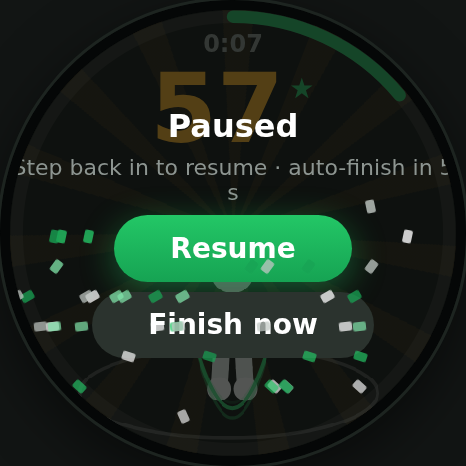
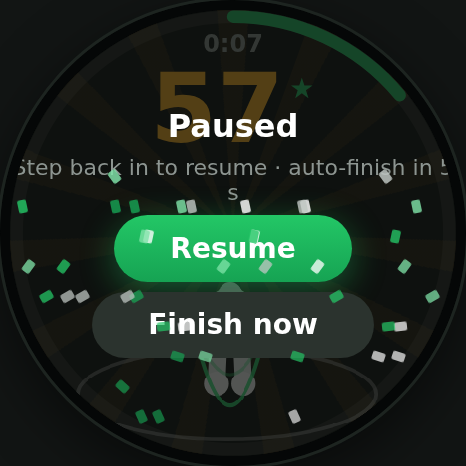
Figure design spec + hip-flush rendering (rounded pictogram definition)
- docs/figure-spec.html (+ PNG): standalone spec card — uniform-width straight torso, hip width equals torso width, legs anchored at hipMid +/-3ws inside the column, no joint protrusions, rounded caps only; do/don't samples and AI keypoint mapping
- Prototype skelFrame: legs now originate from in-column hip anchors instead of raw hip keypoints (removes hip bulge)
- Regenerated all UI screenshots; linked spec from README and PRD

Claude-Session: https://claude.ai/code/session_01MZXpzSkZDw4hTcUnQ2UQRA

diff --git a/docs/figure-spec.html b/docs/figure-spec.html
@@ -1,0 +1,147 @@
+<meta charset="utf-8">
+<title>火柴人设计定义 · Figure Spec</title>
+<style>
+  body { margin: 0; background: #121514; color: #F2F4F2; font-family: "PingFang SC","Noto Sans SC",system-ui,sans-serif; }
+  .sheet { width: 1340px; margin: 0 auto; padding: 40px 40px 48px; }
+  h1 { font-size: 30px; margin: 0 0 6px; } h1 small { color: #8D9591; font-weight: 400; font-size: 16px; margin-left: 12px; }
+  .kw { color: #23C766; font-size: 15px; letter-spacing: .12em; margin-bottom: 26px; }
+  .cols { display: flex; gap: 36px; align-items: flex-start; }
+  .panel { background: #171B19; border: 1px solid #242C27; border-radius: 16px; padding: 24px; }
+  table { border-collapse: collapse; font-size: 14px; width: 100%; }
+  td, th { padding: 7px 12px; border-bottom: 1px solid #242C27; text-align: left; white-space: nowrap; }
+  th { color: #8D9591; font-weight: 600; }
+  td b { color: #23C766; font-variant-numeric: tabular-nums; }
+  .cap { color: #8D9591; font-size: 13px; margin-top: 10px; line-height: 1.7; }
+  .ddt { display: flex; gap: 26px; margin-top: 30px; }
+  .ddt .item { text-align: center; font-size: 14px; }
+  .ddt .tag { margin-top: 6px; font-weight: 700; }
+  .no  .tag { color: #E5604C; } .yes .tag { color: #23C766; }
+  .ann { font-size: 13px; fill: #8D9591; font-variant-numeric: tabular-nums; }
+  .annG { fill: #23C766; font-weight: 700; }
+  .dim { stroke: #4A554F; stroke-width: 1; }
+</style>
+<div class="sheet">
+  <h1>跳绳小挑战 · 火柴人设计定义 <small>Realtime Figure Spec · v1.0 · 适用于实时骨骼渲染与吉祥物姿态稿</small></h1>
+  <div class="kw">科技极简 · 圆润 · 等宽直柱 · 无面部 · 无关节凸起 —— 比奥林匹克 pictogram 更极简</div>
+
+  <div class="cols">
+    <!-- 标注主图 -->
+    <div class="panel">
+      <svg width="560" height="560" viewBox="0 0 560 560">
+        <g transform="translate(150,30)">
+          <!-- 辅助尺寸线 -->
+          <line class="dim" x1="134" y1="10"  x2="215" y2="10"/>
+          <text class="ann" x="228" y="14">头 r26 · 纯白</text>
+          <line class="dim" x1="187" y1="66"  x2="252" y2="66"/>
+          <text class="ann" x="258" y="70">头-肩间隙 ≈11（不相连）</text>
+          <line class="dim" x1="187" y1="95"  x2="268" y2="95"/>
+          <text class="ann" x="274" y="99">颈点 = 双肩中点</text>
+          <line class="dim" x1="188" y1="170" x2="280" y2="170"/>
+          <text class="ann" x="286" y="174">躯干等宽直柱 <tspan class="annG">宽 26</tspan></text>
+          <line class="dim" x1="178" y1="228" x2="292" y2="228"/>
+          <text class="ann" x="298" y="224">髋锚点 ±3</text>
+          <text class="ann annG" x="298" y="242">髋部总宽 = 躯干宽 26</text>
+          <line class="dim" x1="112" y1="128" x2="52" y2="128"/>
+          <text class="ann" x="-96" y="132">臂宽 18</text>
+          <line class="dim" x1="140" y1="300" x2="66" y2="300"/>
+          <text class="ann" x="-96" y="304">腿宽 20</text>
+          <line class="dim" x1="102" y1="218" x2="42" y2="218"/>
+          <text class="ann" x="-96" y="222">手圆头 r13</text>
+          <line class="dim" x1="128" y1="382" x2="60" y2="382"/>
+          <text class="ann" x="-96" y="386">脚圆头 r14</text>
+
+          <!-- 定稿形（基准 ws=1；圆端帽） -->
+          <g stroke="#EDF2EF" stroke-linecap="round" fill="none">
+            <line x1="160" y1="121" x2="160" y2="230" stroke-width="26"/>          <!-- 躯干 -->
+            <path d="M160 121 L118 165 L104 207" stroke-width="18"/>               <!-- 左臂 -->
+            <path d="M160 121 L202 165 L216 207" stroke-width="18"/>               <!-- 右臂 -->
+            <path d="M157 230 L146 297 L140 371" stroke-width="20"/>               <!-- 左腿 -->
+            <path d="M163 230 L174 297 L180 371" stroke-width="20"/>               <!-- 右腿 -->
+          </g>
+          <g fill="#FFFFFF">
+            <circle cx="160" cy="66"  r="26"/>                                     <!-- 头 -->
+            <circle cx="104" cy="207" r="13"/><circle cx="216" cy="207" r="13"/>   <!-- 手 -->
+            <circle cx="140" cy="371" r="14"/><circle cx="180" cy="371" r="14"/>   <!-- 脚 -->
+          </g>
+        </g>
+      </svg>
+      <!-- Do / Don't -->
+      <div class="ddt">
+        <div class="item no">
+          <svg width="96" height="120" viewBox="0 0 96 120">
+            <g stroke="#8D9591" stroke-linecap="round" fill="none">
+              <polygon points="30,30 66,30 56,80 40,80" fill="#8D9591" stroke="none"/>
+              <path d="M42 80 L36 108 M54 80 L60 108" stroke-width="8"/>
+            </g>
+            <circle cx="48" cy="14" r="11" fill="#8D9591"/>
+          </svg>
+          <div class="tag">✕ 宽肩梯形</div>
+        </div>
+        <div class="item no">
+          <svg width="96" height="120" viewBox="0 0 96 120">
+            <g stroke="#8D9591" stroke-linecap="round" fill="none">
+              <line x1="48" y1="32" x2="48" y2="76" stroke-width="13"/>
+              <path d="M38 76 L34 108 M58 76 L62 108" stroke-width="9"/>
+            </g>
+            <circle cx="48" cy="14" r="11" fill="#8D9591"/>
+            <circle cx="38" cy="76" r="7" fill="#8D9591"/>
+            <circle cx="58" cy="76" r="7" fill="#8D9591"/>
+          </svg>
+          <div class="tag">✕ 髋部外凸</div>
+        </div>
+        <div class="item no">
+          <svg width="96" height="120" viewBox="0 0 96 120">
+            <g stroke="#8D9591" stroke-linecap="round" fill="none">
+              <line x1="48" y1="32" x2="48" y2="76" stroke-width="13"/>
+              <path d="M48 40 L28 56 M48 40 L68 56" stroke-width="7"/>
+              <path d="M45 76 L38 108 M51 76 L58 108" stroke-width="9"/>
+            </g>
+            <circle cx="48" cy="14" r="11" fill="#8D9591"/>
+            <circle cx="28" cy="56" r="6" fill="#8D9591"/>
+            <circle cx="68" cy="56" r="6" fill="#8D9591"/>
+            <circle cx="48" cy="40" r="6" fill="#8D9591"/>
+          </svg>
+          <div class="tag">✕ 关节圆点外露</div>
+        </div>
+        <div class="item yes">
+          <svg width="96" height="120" viewBox="0 0 96 120">
+            <g stroke="#EDF2EF" stroke-linecap="round" fill="none">
+              <line x1="48" y1="34" x2="48" y2="78" stroke-width="13"/>
+              <path d="M48 34 L30 52 L24 68" stroke-width="8"/>
+              <path d="M48 34 L66 52 L72 68" stroke-width="8"/>
+              <path d="M46.5 78 L42 108 M49.5 78 L54 108" stroke-width="9"/>
+            </g>
+            <circle cx="48" cy="13" r="11" fill="#fff"/>
+            <circle cx="24" cy="68" r="5.5" fill="#fff"/><circle cx="72" cy="68" r="5.5" fill="#fff"/>
+            <circle cx="42" cy="108" r="6" fill="#fff"/><circle cx="54" cy="108" r="6" fill="#fff"/>
+          </svg>
+          <div class="tag">✓ 定稿</div>
+        </div>
+      </div>
+    </div>
+
+    <!-- 参数表 -->
+    <div class="panel" style="flex:1;">
+      <table>
+        <tr><th>部件</th><th>定义</th><th>基准值（ws=1）</th></tr>
+        <tr><td>头</td><td>纯白实心圆，圆心 = 双耳中点上移 17；与躯干<b>留空不相连</b></td><td>r <b>26</b></td></tr>
+        <tr><td>躯干</td><td>等宽直柱：颈点（双肩中点）→ 髋中点，一条线，圆端帽</td><td>宽 <b>26</b></td></tr>
+        <tr><td>手臂</td><td>从<b>颈点</b>发源（不画肩线）→ 肘 → 腕</td><td>宽 <b>18</b></td></tr>
+        <tr><td>腿</td><td>从<b>髋锚点</b>发源 → 膝 → 踝；髋锚点 = 髋中点 x ±3、y 同髋中点</td><td>宽 <b>20</b></td></tr>
+        <tr><td>髋部</td><td><b>总宽恒等于躯干宽</b>（3×2 + 20 = 26），腿外缘与躯干侧边齐平</td><td>= <b>26</b></td></tr>
+        <tr><td>手 / 脚</td><td>末端纯白小圆头（唯一允许的"凸"，是端点不是关节）</td><td>r <b>13 / 14</b></td></tr>
+        <tr><td>颜色</td><td>肢体/躯干 <b>#EDF2EF</b>（浅白）；头/手/脚 <b>#FFFFFF</b>；深色舞台上使用</td><td>—</td></tr>
+        <tr><td>缩放</td><td>全部尺寸 × ws；ws = clamp(肩宽px ÷ 40, 0.55, 1.5)（近大远小）</td><td>0.55–1.5</td></tr>
+        <tr><td>关节</td><td>肘/膝 = 同宽线段圆帽相接，平滑过渡；<b>肩/髋/肘/膝一律不画圆点、不加宽</b></td><td>—</td></tr>
+      </table>
+      <div class="cap">
+        <b style="color:#F2F4F2">铁律</b>：① 髋部总宽 = 躯干宽，侧边一条直线下来，无外凸；② 无宽肩、无梯形（上下等宽）；
+        ③ 关节零装饰——圆润感全部来自"等宽线 + 圆端帽"，不靠加圆点；④ 无面部、无描边、无渐变；
+        ⑤ 头与躯干之间保留 pictogram 式空隙。<br><br>
+        <b style="color:#F2F4F2">映射（AI 33 点）</b>：颈点=11/12 中点 · 髋中点=23/24 中点 · 头圆心=7/8 中点上移 17ws ·
+        肘 13/14 · 腕 15/16 · 膝 25/26 · 踝 27/28。真实髋点只参与<b>计算髋中点</b>，不直接作为画腿起点。<br><br>
+        <b style="color:#F2F4F2">实现基准</b>：prototype/index.html · skelFrame()（同规格需同步 firmware/src/atom_app.c）。
+      </div>
+    </div>
+  </div>
+</div>

diff --git a/prototype/index.html b/prototype/index.html
@@ -1907,7 +1907,9 @@ function skelFrame() {
     c.lineTo((X(pts[23]) + X(pts[24])) / 2, (Y(pts[23]) + Y(pts[24])) / 2);
     c.stroke();
   }
-  /* 手臂：从颈点分出（火柴人式）；腿：从真实髋点下来（髋点在柱体宽度内，侧边仍直） */
+  /* 手臂：从颈点分出（火柴人式）；
+     腿：从躯干柱内侧锚点分出（髋锚点 = 髋中点 ±3ws）——髋部总宽恒等于躯干宽 26ws，
+     腿外缘与躯干侧边齐平，无任何关节外凸（圆润 pictogram 定义，见 docs/figure-spec.md） */
   const armSeg = (elbow, wrist) => {
     if (!neck || !pts[elbow]) return;
     c.lineWidth = 18 * ws;
@@ -1915,7 +1917,15 @@ function skelFrame() {
     seg(elbow, wrist, 18);
   };
   armSeg(13, 15); armSeg(14, 16);
-  seg(23, 25, 20); seg(25, 27, 20); seg(24, 26, 20); seg(26, 28, 20);
+  const legSeg = (hip, knee, ankle) => {
+    if (!pts[hip] || !pts[knee] || !pts[23] || !pts[24]) return;
+    const hmx = (X(pts[23]) + X(pts[24])) / 2, hmy = (Y(pts[23]) + Y(pts[24])) / 2;
+    const ax = hmx + (X(pts[hip]) < hmx ? -3 : 3) * ws;
+    c.lineWidth = 20 * ws;
+    c.beginPath(); c.moveTo(ax, hmy); c.lineTo(X(pts[knee]), Y(pts[knee])); c.stroke();
+    seg(knee, ankle, 20);
+  };
+  legSeg(23, 25, 27); legSeg(24, 26, 28);
   /* 手部 / 脚部小圆头（纯白，略亮于肢体） */
   c.fillStyle = '#FFFFFF';
   const knob = (i, r) => {

diff --git a/README.md b/README.md
@@ -14,6 +14,7 @@
 | 📋 **PRD** | [`docs/PRD.md`](docs/PRD.md) | 需求明细 + 验收标准 + 状态策略 + 接口 + 里程碑,**开发以此为准** |
 | 📄 产品设计文档 | [`docs/product-design.md`](docs/product-design.md) | 设计理据、JRC 对标调研、排行榜/语音/新鲜感方案、商业与增长 |
 | 🖼 **UI 界面图(全套 20 屏 × 双语)** | [`docs/ui/`](docs/ui/README.md) | 真实渲染截图,`en/` 讨论主版本、`zh/` 中文版,含空态/极限态 |
+| 🧍 **火柴人设计定义** | [`docs/figure-spec.html`](docs/figure-spec.html) | 独立规格卡(标注图+参数表+Do/Don't):等宽直柱、髋宽=躯干宽、无关节凸起;PNG 版在 [`docs/ui/figure-spec.png`](docs/ui/figure-spec.png) |
 | 🦘 **可交互原型** | [`prototype/index.html`](prototype/index.html) | 浏览器直接打开(手机也可);默认英文,`?lang=zh` 或控制条切中文;底部控制条:自动演示 / 语音 / 10·13·15fps / 1×2×3× |
 | 📟 纯 C 固件参考 | [`firmware/`](firmware/) | C11 + 软件光栅化完整参考实现(HAL 5 接口 + AI 事件接口),`make demo` 出 BMP 帧;移植指引见其 README |
 | 🌐 WebView 嵌入版 | [`embedded/`](embedded/) | 设备 WebView 单文件方案 + AI 桥接接口文档。⚠ 基于 v0.5,**界面落后于原型**,接口契约仍有效;定版后需重新生成 |

diff --git a/docs/PRD.md b/docs/PRD.md
@@ -5,7 +5,7 @@
 | 版本 | v1.0（对应原型 proto-v0.17） |
 | 日期 | 2026-08-13 |
 | 状态 | 待评审 |
-| 相关文档 | [产品设计文档](product-design.md)（设计理据与调研）· [UI 界面图](ui/)（EN/中文全套）· [可交互原型](../prototype/index.html) · [C 固件参考](../firmware/) |
+| 相关文档 | [产品设计文档](product-design.md)（设计理据与调研）· [火柴人设计定义](figure-spec.html) · [UI 界面图](ui/)（EN/中文全套）· [可交互原型](../prototype/index.html) · [C 固件参考](../firmware/) |
 
 ---
 
